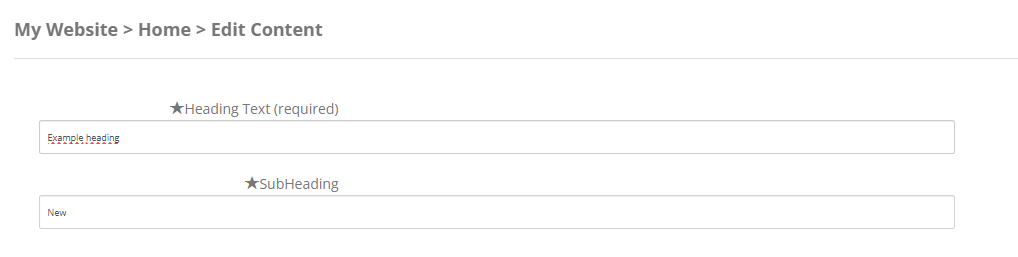
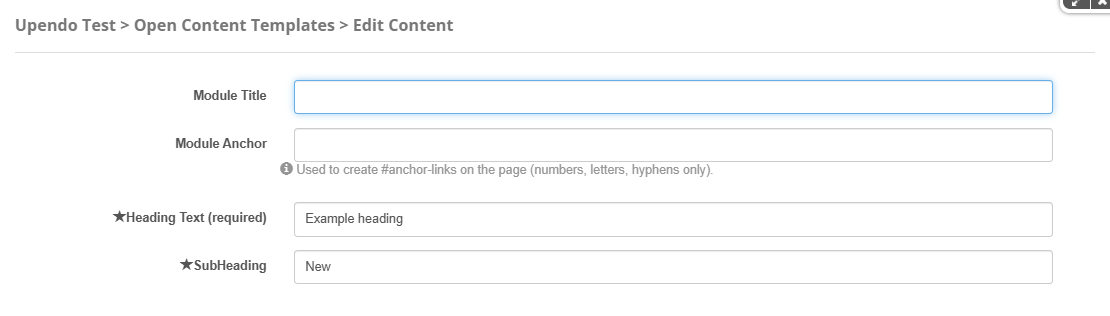
Update Porto-Labels-Headings Doc

diff --git a/Porto-Labels-Headings/Porto-Labels-Heading.html b/Porto-Labels-Headings/Porto-Labels-Heading.html
@@ -135,8 +135,6 @@
 
         .component-image {
             width: 100%;
-            max-width: 900px;
-            margin: 10px 0;
             border-radius: 10px;
             box-shadow: 0 4px 8px rgba(0, 0, 0, 0.1);
         }
@@ -162,9 +160,9 @@
             <strong>OpenContent</strong>.</p>
 
         <p>For more details, check out the <a
-            href="https://github.com/UpendoVentures/OpenContentTemplates/tree/master/Porto-Labels-Headings">
+            href="https://github.com/UpendoVentures/OpenContentTemplates/tree/master/Porto-Labels-Headings" target="_blank">
             <strong>Porto-Labels-Headings repository on GitHub</strong></a> or the <a
-            href="https://porto.mandeeps.com/shortcodes/shortcodes-2/labels-headings">
+            href="https://porto.mandeeps.com/shortcodes/shortcodes-2/labels" target="_blank">
             <strong>Porto documentation</strong></a>.
         </p>
 
@@ -186,7 +184,19 @@
             </thead>
             <tbody>
                 <tr>
-                    <td>Heading</td>
+                    <td>Module Title</td>
+                    <td>String</td>
+                    <td>Used to define the title of the module. This title is displayed in the DNN administration interface
+                        to help identify the module.</td>
+                </tr>
+                <tr>
+                    <td>Module Anchor</td>
+                    <td>String</td>
+                    <td>Used to create anchor links on the page. This allows users to link directly to the module using a unique
+                        identifier. Only letters, numbers, and hyphens are allowed.</td>
+                </tr>
+                <tr>
+                    <td>Heading Text</td>
                     <td>String</td>
                     <td>The main heading text for the component. This field is required.</td>
                 </tr>
@@ -198,11 +208,10 @@
             </tbody>
         </table>
 
-        <h2>
-            <span class="Head">Settings Properties</span>
-        </h2>
+        <h2><span class="Head">Settings</span></h2>
         <img src="images/template-settings.png" alt="View Example" class="component-image">
 
+        <h2><span class="Head">Settings Properties</span></h2>
         <table class="properties-table">
             <thead>
                 <tr>
@@ -213,13 +222,23 @@
             </thead>
             <tbody>
                 <tr>
-                    <td>SubHeadingColor</td>
+                    <td>SubHeading Color</td>
                     <td>String</td>
-                    <td>Defines the color of the subheading. Options include <code>badge-default</code>,
-                        <code>badge-success</code>, <code>badge-info</code>, and more.</td>
+                    <td>Defines the color of the subheading. Options include:
+                        <span style="background-color: #777; color: white; padding: 2px 6px; border-radius: 4px;">Default</span>,
+                        <span style="background-color: #47a447; color: white; padding: 2px 6px; border-radius: 4px;">Success</span>,
+                        <span style="background-color: #5bc0de; color: white; padding: 2px 6px; border-radius: 4px;">Info</span>,
+                        <span style="background-color: #ed9c28; color: white; padding: 2px 6px; border-radius: 4px;">Warning</span>,
+                        <span style="background-color: #d2322d; color: white; padding: 2px 6px; border-radius: 4px;">Danger</span>,
+                        <span style="background-color: #2e353e; color: white; padding: 2px 6px; border-radius: 4px;">Dark</span>,
+                        <span style="background-color: #0088cc; color: white; padding: 2px 6px; border-radius: 4px;">Primary</span>,
+                        <span style="background-color: #E36159; color: white; padding: 2px 6px; border-radius: 4px;">Secondary</span>,
+                        <span style="background-color: #2BAAB1; color: white; padding: 2px 6px; border-radius: 4px;">Tertiary</span>,
+                        <span style="background-color: #383f48; color: white; padding: 2px 6px; border-radius: 4px;">Quaternary</span>.
+                    </td>
                 </tr>
                 <tr>
-                    <td>SubHeadingSize</td>
+                    <td>SubHeading Size</td>
                     <td>String</td>
                     <td>Defines the size of the subheading. Options include <code>h1</code>, <code>h2</code>,
                         <code>h3</code>, and more.</td>
@@ -238,8 +257,8 @@
         </h2>
         <div class="note">
             <strong>Note:</strong> Ensure that the <strong>Heading</strong> and <strong>SubHeading</strong> fields are
-            set correctly to match your design requirements. Additionally, verify that the <strong>SubHeadingColor</strong>
-            and <strong>SubHeadingSize</strong> properties are configured as needed.
+            set correctly to match your design requirements. Additionally, verify that the <strong>SubHeading Color</strong>
+            and <strong>SubHeading Size</strong> properties are configured as needed.
         </div>
     </div>
 </body>
